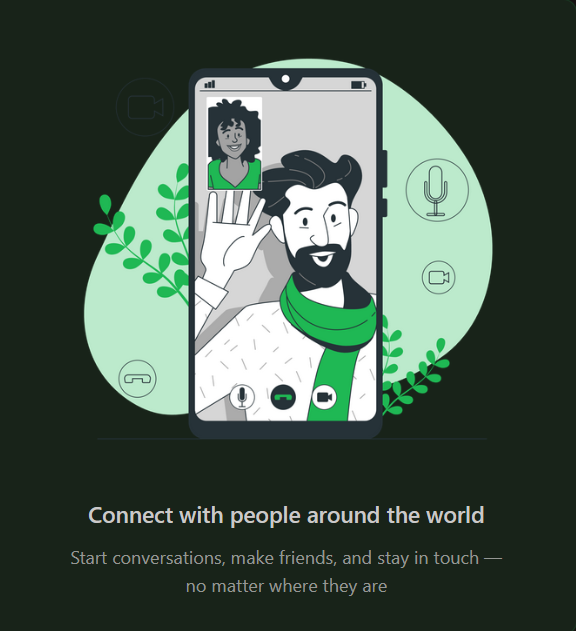
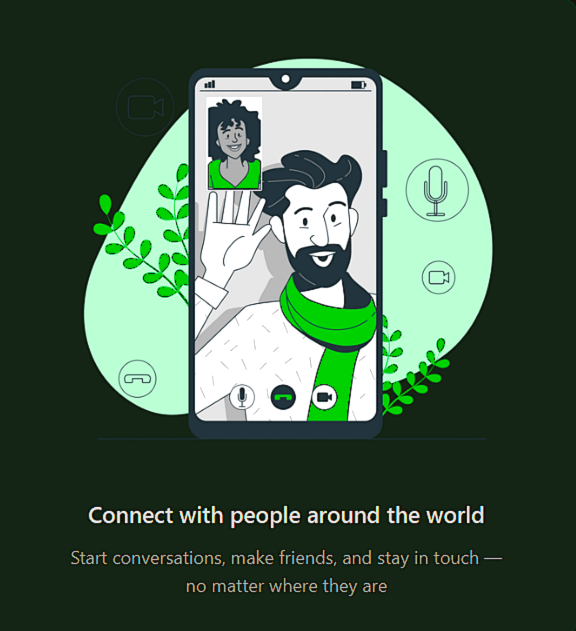
Refactor code structure for improved readability and maintainability

diff --git a/data/index.ts b/data/index.ts
@@ -73,7 +73,7 @@ export const projects = [
   {
     id: 9,
     title: "Loop – Social Platform with Podcast Features",
-    des: "Loop lets users connect with friends, chat in real time, and share or listen to podcasts, all in one user-friendly platform.",
+    des: "Loop lets users connect with friends, chat in real time, record podcasts, all in one user-friendly platform.",
     img: "loop.png",
     iconLists: ["/next.svg", "/tail.svg", "/ts.svg", "/stream.svg", "/c.svg"],
     link: "https://www.loop.it.com",
@@ -96,7 +96,7 @@ export const projects = [
     id: 4,
     title: "Textil Ambiente ",
     des: "Textil Ambiente , located in Brunnen, Switzerland, specializes in custom-made curtains and various sewing services. They offer a wide selection of high-quality fabrics, colors, and designs, providing personalized solutions for both residential and commercial spaces.",
-    img: "textilpht.png",
+    img: "textill.webp",
     iconLists: [
       "/ts.svg",
       "/c.svg",
@@ -126,7 +126,7 @@ export const projects = [
     id: 7,
     title: "Online Call - Dialer",
     des: "It automates dialing, tracks call outcomes, and boosts productivity with real-time analytics. Designed for sales teams, it includes features like contact management, call scripting, and seamless CRM integration to streamline cold calling and improve customer engagement.",
-    img: "/echo.avif",
+    img: "/callD.avif",
     iconLists: ["/next.svg", "/tail.svg", "/ts.svg", "/stream.svg", "/c.svg"],
     link: "https://www.echo-o.com",
   },
@@ -143,7 +143,7 @@ export const projects = [
     id: 5,
     title: "Your Ultimate Car Buying Companion",
     des: "Enjoy a seamless, pleasant, and efficient car buying process with our top-notch service and innovative solutions.",
-    img: "/shopCar.jpeg",
+    img: "/carbuy.webp",
     iconLists: [
       "/ts.svg",
       "/c.svg",
